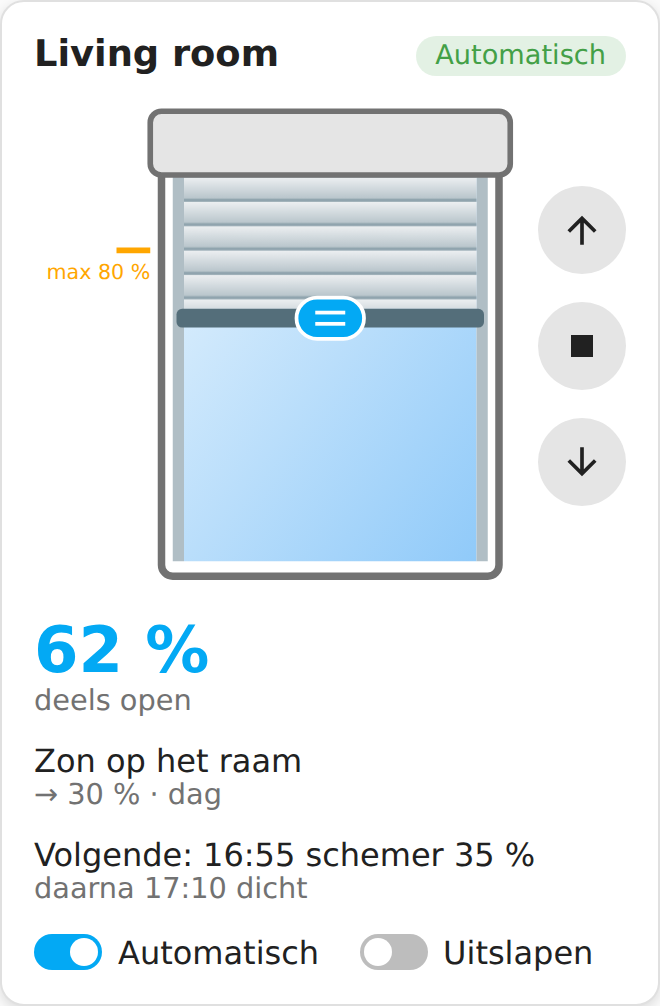
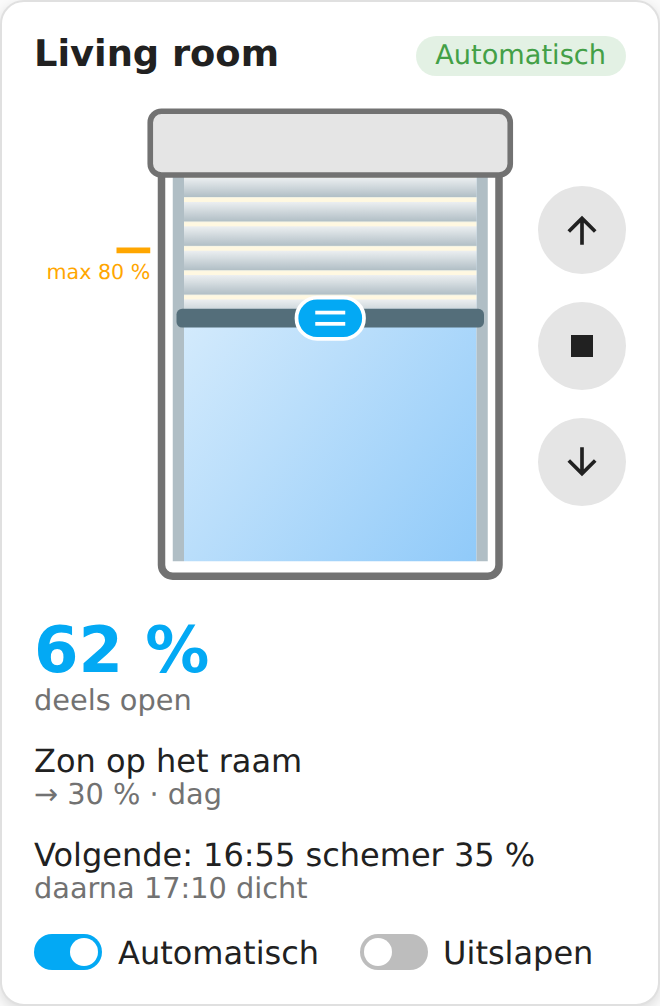
docs: slit screenshot and the gaps in the card docs (#28)

Changed region(s): [[0.2727, 0.1849, 0.7273, 0.3082]]

diff --git a/scripts/screenshot_card.py b/scripts/screenshot_card.py
@@ -27,7 +27,17 @@ SHOTS = (
     ("card-drag.png", LIVING, "light", 520, "", 0.62),
     ("card-overview.png", BASE, "light", 900, "", None),
     ("card-overview-dark.png", BASE, "dark", 900, "", None),
+    ("card-slit.png", LIVING, "light", 520, "", None),
 )
+# per shot: states that differ from the example (the slit: bar on the sill, gaps open, not closed)
+OVERRIDES = {
+    "card-slit.png": {
+        "cover.living_shutter": ("open", {"current_position": 0}),
+        "sensor.living_stand": ("slit", {}),
+        "sensor.living_reason": ("schedule", {"target_position": 0, "max_position": 80, "language": None}),
+        "sensor.living_phase": ("slit", {}),
+    }
+}
 
 
 def hass_json() -> dict:
@@ -98,6 +108,10 @@ def main() -> None:
         with sync_playwright() as p:
             browser = p.chromium.launch()
             for name, device, theme, width, lang, drag in SHOTS:
+                states = hass_json()
+                for eid, (state, attributes) in OVERRIDES.get(name, {}).items():
+                    states["states"][eid].update(state=state, attributes=attributes)
+                data.write_text(json.dumps(states))
                 page = browser.new_page(
                     viewport={"width": width + 32, "height": 900},
                     device_scale_factor=2,

diff --git a/docs/card.md b/docs/card.md
@@ -17,6 +17,10 @@ device_id: <the shutter's device>
   (see *Manual operation*). During a storm the target snaps to fully open or fully closed.
 - **Keyboard:** focus the drawing; ↑/↓ 5 %, Page Up/Down 25 %, Home open, End closed, Enter to move,
   Escape to cancel.
+- **Slats:** light shows between the slats whenever the shutter is not fully closed, also in the slit
+  position (bar on the sill, gaps open); only fully closed are they pressed together.
+
+  ![The slit position](images/card-slit.png)
 - **Maximum position:** an orange mark on the left of the window when it is below 100 %.
 - **Buttons:** open, stop, close.
 - **Status:** position, why the shutter is where it is (sun, schedule, sleep-in, manual until …, storm,

diff --git a/CHANGELOG.md b/CHANGELOG.md
@@ -6,6 +6,11 @@ and since 2026.11.0 versions follow Home Assistant's scheme: `YEAR.MONTH.N` (bef
 
 ## [Unreleased]
 
+### Fixed
+
+- Card: the drawing shows the gaps between the slats whenever the shutter is not fully closed, also in the
+  slit position; fully closed it shows them pressed together (#28).
+
 ## [2026.11.0] - 2026-11-20
 
 ### Added
